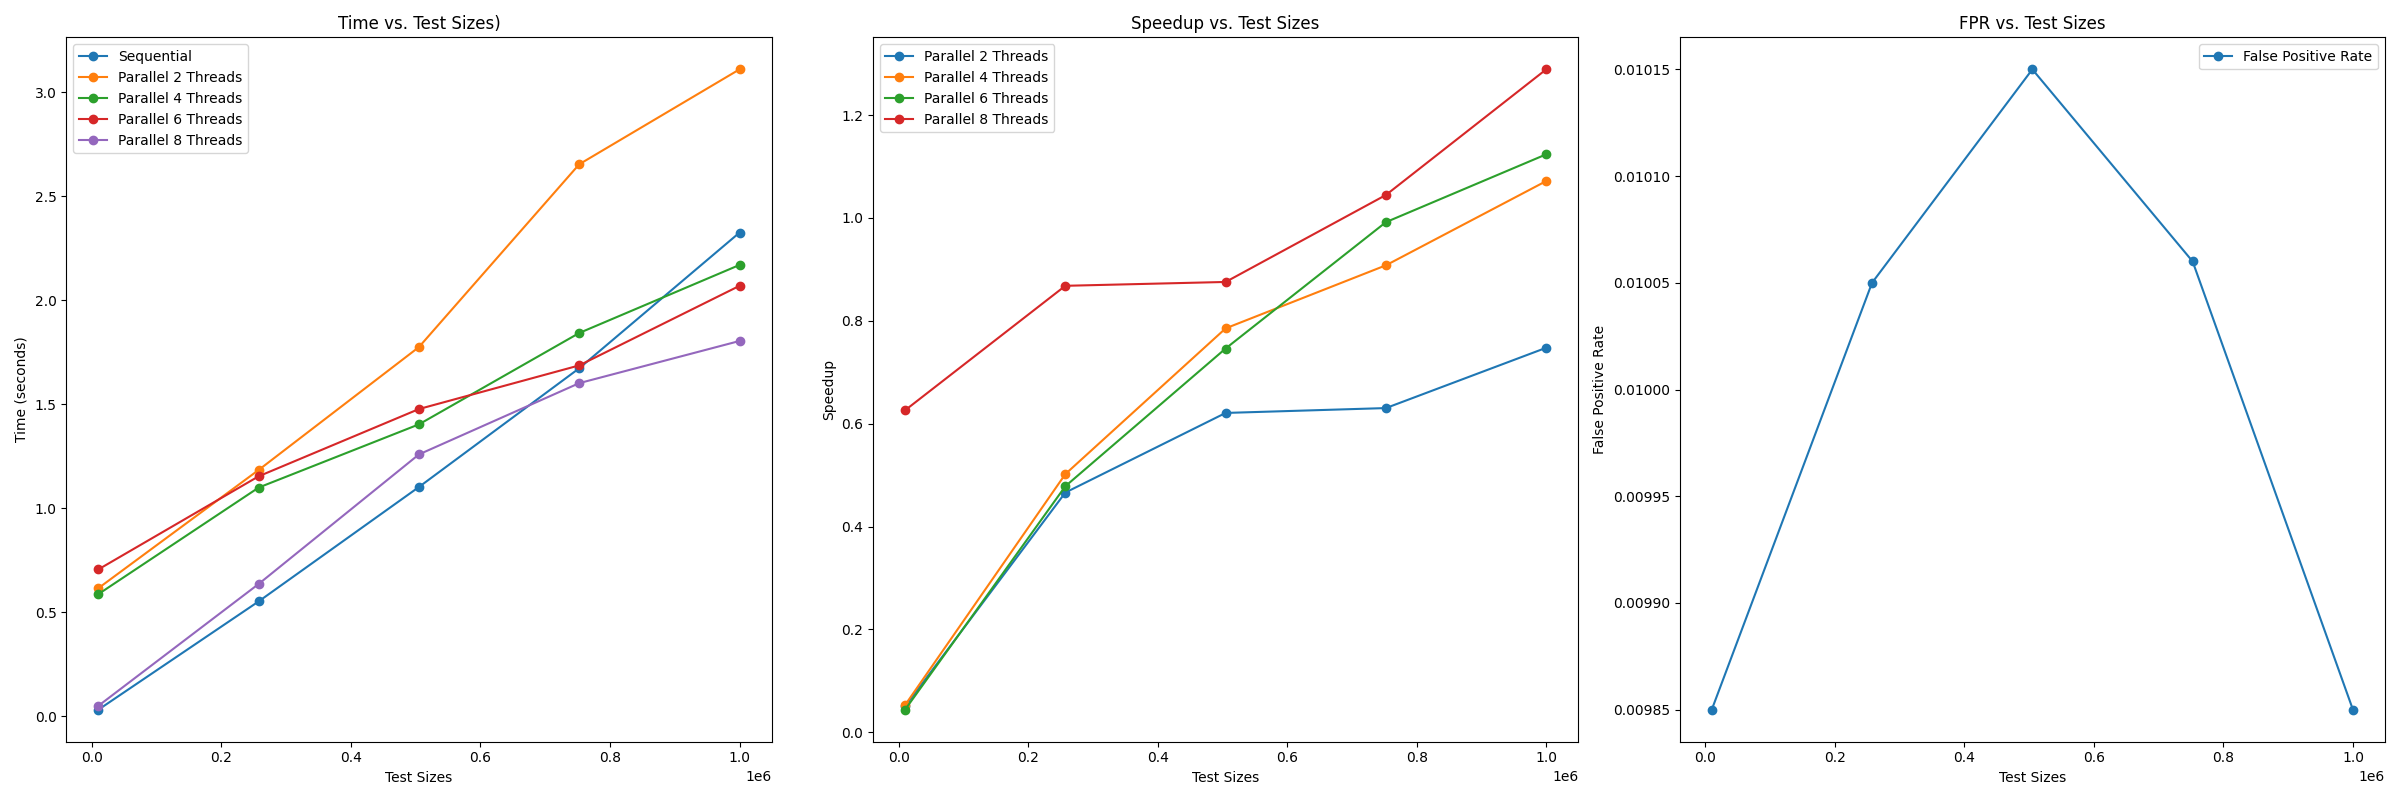
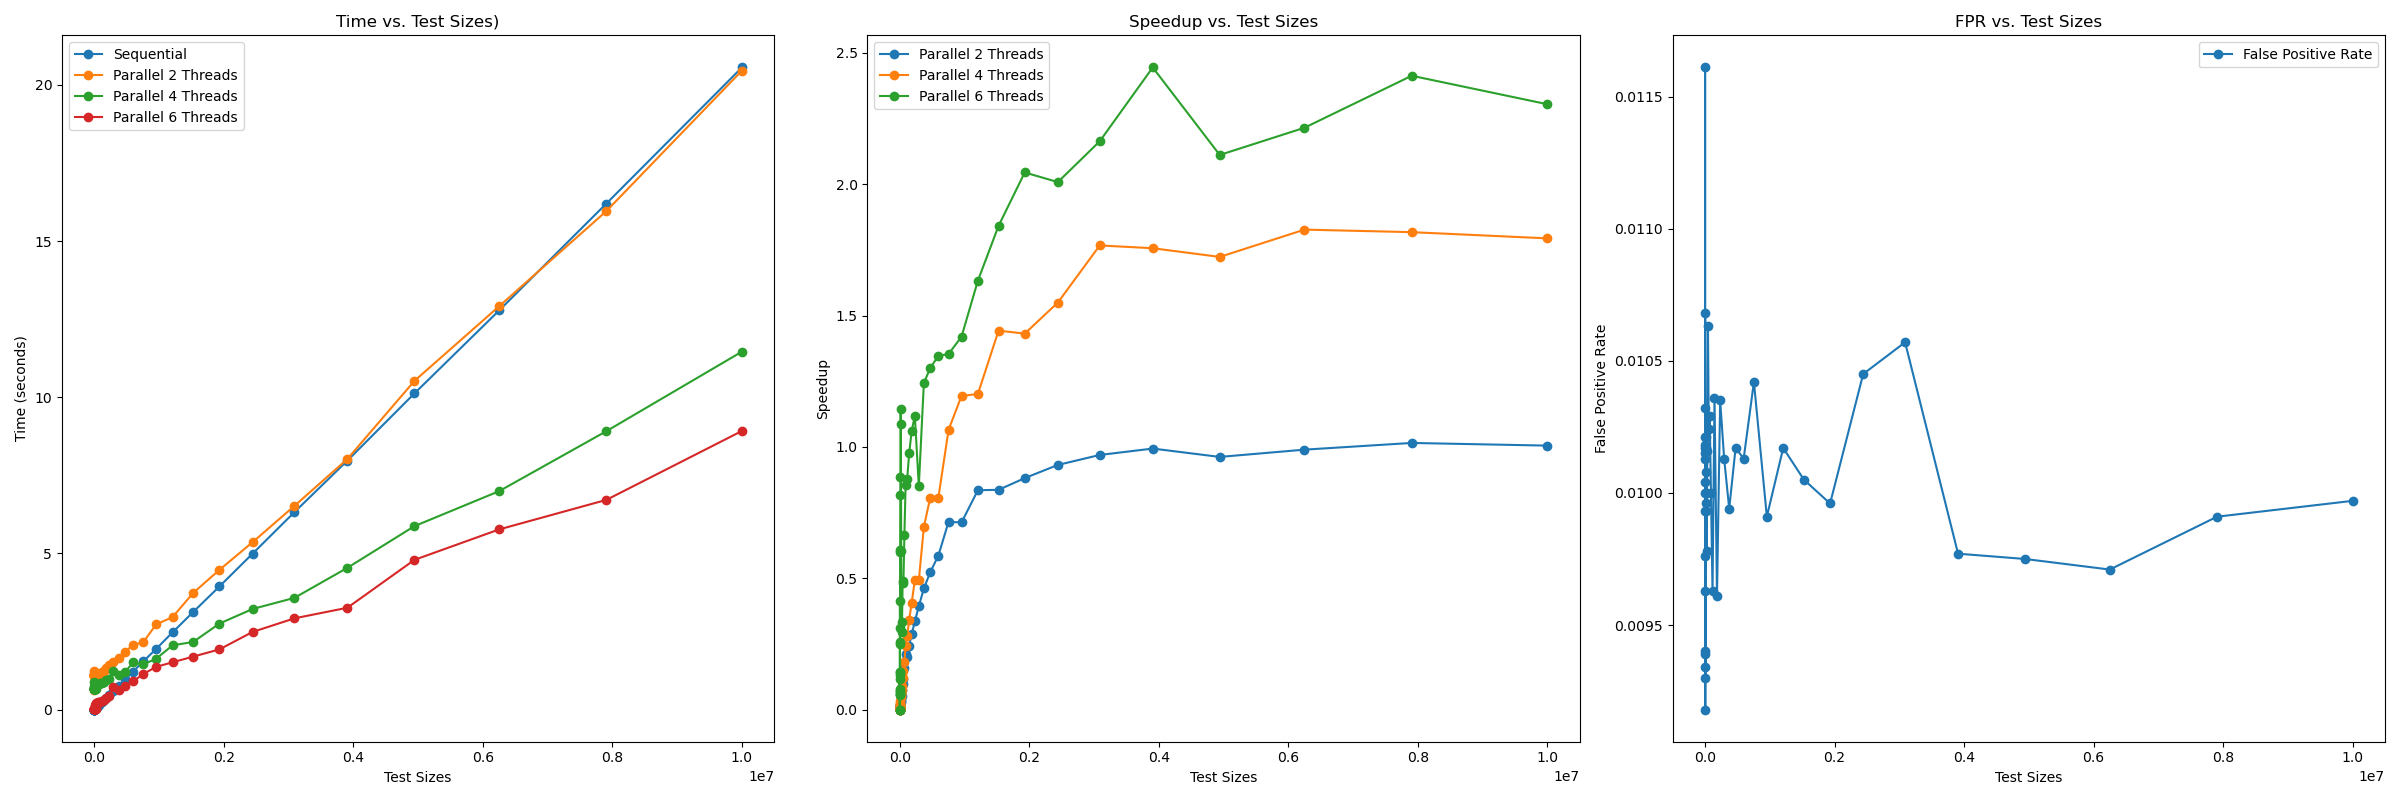
small correction

diff --git a/main_chunks.py b/main_chunks.py
@@ -14,6 +14,7 @@ from test import *
 n_threads = os.cpu_count()
 test_chunks = [n_threads, n_threads*2, n_threads*4, n_threads*8, n_threads*16, n_threads*32, n_threads*64]
 
+
 def main():
     setup_results = {
         test_key: [],
@@ -44,7 +45,7 @@ def main():
         speedups = {}
         for chunks in test_chunks:
             print(f"Parallel with {chunks} chunks: ", end='')
-            par_setup_time = bloom_filter.par_setup(test_emails, 8)
+            par_setup_time = bloom_filter.par_setup(test_emails, n_threads)
             print(f"{par_setup_time} seconds")
 
             # Speedup
@@ -65,6 +66,7 @@ def main():
 
     plot_results(setup_results)
 
+
 def save_results(filename, results, test, seq_time, par_times, speedups):
     # Save results
     results[test_key].append(test)
@@ -79,6 +81,7 @@ def save_results(filename, results, test, seq_time, par_times, speedups):
         writer = csv.DictWriter(csvfile, fieldnames=headers)
         writer.writeheader()
         [writer.writerow({header: results[header][i] for header in headers}) for i in range(len(results[test_key]))]
+
 
 def plot_results(results, filter=False):
     print(results)
@@ -104,6 +107,7 @@ def plot_results(results, filter=False):
     plt.tight_layout()
     plt.savefig(plot_chunks_filename)
     plt.show()
+
 
 if __name__ == '__main__':
     main()

diff --git a/test.py b/test.py
@@ -4,16 +4,14 @@ Thomas Del Moro & Lorenzo Baiardi
 """
 
 import os
-
 import numpy as np
 
 # Number of cores/threads
 n_threads = os.cpu_count()  # Number of cores/threads
-test_threads = np.linspace(2, n_threads, 4, dtype=int)  # Number of threads to test
+test_threads = np.linspace(2, n_threads, int(n_threads/2), dtype=int)  # Number of threads to test
 
 # Number of emails to test setup
 test_sizes = np.linspace(1e4, 1e7, 5, dtype=int)  # Number of emails to test
-# test_sizes = np.logspace(4, 7, 50, base=10, dtype=int)  # Number of emails to test
 
 # Number of spam emails to test
 spam_sizes = np.linspace(1e4, 1e7, 5, dtype=int)
@@ -26,12 +24,11 @@ setup_results_filename = 'results/results.csv'
 filter_results_filename = 'results/filter.csv'
 chunks_results_filename = 'results/chunks.csv'
 bitarray_filename = 'results/bitarray.mmap'
+
+# Plots filenames
 plot_setup_filename = 'results/plot_setup.png'
 plot_filter_filename = 'results/plot_filter.png'
 plot_chunks_filename = 'results/plot_chunks.png'
-plot_time_filename = 'results/plot_time.png'
-plot_speedup_filename = 'results/plot_speedup.png'
-plot_fpr_filename = 'results/plot_fpr.png'
 
 
 # key value for the results dictionary

diff --git a/main.py b/main.py
@@ -77,14 +77,14 @@ def main():
         test_emails = spam_emails[:test]
 
         print(f"Filter Sequential: ", end='')
-        seq_filter_time, seq_errors = bloom_filter.filter_all_seq(test_emails)
+        seq_filter_time, seq_errors = bloom_filter.seq_filter_all(test_emails)
         print(f"{seq_filter_time} seconds")
 
         par_filter_times = {}
         filter_speedups = {}
         for threads in test_threads:
             print(f"Filter Parallel with {threads} threads: ", end='')
-            par_filter_time, par_errors = bloom_filter.filter_all_par(test_emails, threads)
+            par_filter_time, par_errors = bloom_filter.par_filter_all(test_emails, threads)
             print(f"{par_filter_time} seconds")
             speedup = seq_filter_time / par_filter_time
             print(f"Speedup with {threads} threads {speedup}")
@@ -102,6 +102,7 @@ def main():
                      v_fpr)
 
     plot_results(filter_results, filter=True)
+
 
 def save_results(filename, results, test, seq_time, par_times, speedups, v_fpr=None):
     # Save results

diff --git a/bloom_filter.py b/bloom_filter.py
@@ -52,7 +52,7 @@ class BloomFilter:
                 index = mmh3.hash(item, i) % self.size
                 self.bitarray[index] = True
 
-    def filter_all_seq(self, items):
+    def seq_filter_all(self, items):
         errors = 0
         start = time.time()
         for item in items:
@@ -60,13 +60,12 @@ class BloomFilter:
                 errors += 1
         return time.time() - start, errors
 
-    def filter_all_par(self, items, n_threads):
-        errors = 0
+    def par_filter_all(self, items, n_threads):
         # Split items in chunks
         chunks = np.array_split(items, n_threads)
         # Start parallel setup
         start = time.time()
-        results = Parallel(n_jobs=n_threads)(delayed(self.filter_all_seq)(chunk) for chunk in chunks)
+        results = Parallel(n_jobs=n_threads)(delayed(self.seq_filter_all)(chunk) for chunk in chunks)
         end_time = time.time() - start
         t, errs = zip(*results)
         errors = sum(errs)
